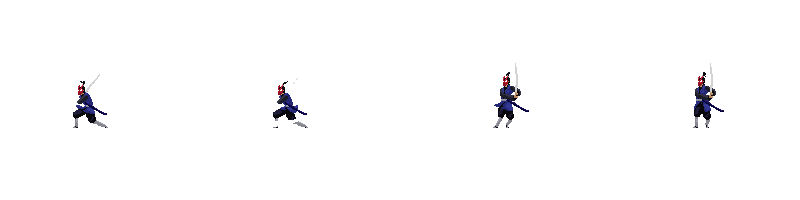
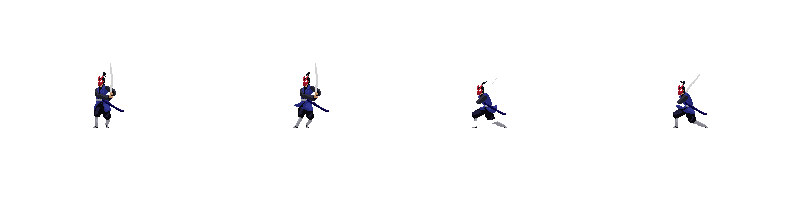
Added fighter damage and fixed orientation of enemy spritesheets

diff --git a/index.js b/index.js
@@ -82,7 +82,8 @@ const player = new Fighter({
     },
     width: 160,
     height: 50
-  }
+  },
+  damage: 20
 });
 
 const enemy = new Fighter({
@@ -124,11 +125,11 @@ const enemy = new Fighter({
       framesMax: 2
     },
     attack1: {
-      imageSrc: "./img/kenji/Attack1.png",
+      imageSrc: "./img/kenji/Attack2.png",
       framesMax: 4
     },
     takeHit: {
-      imageSrc: "./img/kenji/Take hit.png",
+      imageSrc: "./img/kenji/Take Hit - white.png",
       framesMax: 3
     },
     death: {
@@ -143,7 +144,8 @@ const enemy = new Fighter({
     },
     width: 170,
     height: 50
-  }
+  },
+  damage: 10
 });
 
 const keys = {
@@ -158,7 +160,7 @@ const keys = {
 decreaseTimer();
 
 function animate() {
-  window.requestAnimationFrame(animate)
+  window.requestAnimationFrame(animate);
   c.fillStyle = "black";
   c.fillRect(0, 0, canvas.width, canvas.height);
   background.update();
@@ -181,7 +183,7 @@ function animate() {
     player.switchSprite("idle");
   }
 
-    //jumping
+    //jumping animations
   if (player.velocity.y < 0) {
     player.switchSprite("jump");
   } else if (player.velocity.y > 0) {
@@ -201,7 +203,7 @@ function animate() {
     enemy.switchSprite("idle");
   }
 
-    //jumping
+    //jumping animations
   if (enemy.velocity.y < 0) {
     enemy.switchSprite("jump");
   } else if (enemy.velocity.y > 0) {
@@ -217,7 +219,7 @@ function animate() {
     player.isAttacking &&
     player.framesCurrent === 4
   ) {
-    enemy.takeHit();
+    enemy.takeHit(player.damage);
     player.isAttacking = false;
     gsap.to("#enemyHealth", {
       width: enemy.health + "%"
@@ -238,7 +240,7 @@ function animate() {
     enemy.isAttacking &&
     enemy.framesCurrent === 2
   ) {
-    player.takeHit();
+    player.takeHit(enemy.damage);
     enemy.isAttacking = false;
     gsap.to("#playerHealth", {
       width: player.health + "%"
@@ -271,7 +273,10 @@ window.addEventListener("keydown", (event) => {
         player.lastKey = "a";
         break;
       case 'w':
-        player.velocity.y = -20;
+        if (player.canJump) {
+          player.velocity.y = -20;
+          player.canJump = false;
+        }
         break;
       case 's':
         player.attack();
@@ -291,7 +296,10 @@ window.addEventListener("keydown", (event) => {
         enemy.lastKey = "j";
         break;
       case 'i':
-        enemy.velocity.y = -20;
+        if (enemy.canJump) {
+          enemy.velocity.y = -20;
+          enemy.canJump = false;
+        }
         break;
       case 'k':
         enemy.attack();

diff --git a/js/classes.js b/js/classes.js
@@ -61,7 +61,8 @@ class Fighter extends Sprite {
     framesMax = 1,
     offset = {x: 0, y:0},
     sprites,
-    hitBox = { offset: {}, width: undefined, height: undefined }
+    hitBox = { offset: {}, width: undefined, height: undefined },
+    damage = 20
   }) {
     super({
       position,
@@ -92,6 +93,8 @@ class Fighter extends Sprite {
     this.framesHold = 5;
     this.sprites = sprites;
     this.dead = false;
+    this.canJump = true;
+    this.damage = damage;
 
     for (const sprite in this.sprites) {
       sprites[sprite].image = new Image();
@@ -117,6 +120,7 @@ class Fighter extends Sprite {
     if (this.position.y + this.height + this.velocity.y >= canvas.height - 97) {
       this.velocity.y = 0;
       this.position.y = 330;
+      this.canJump = true;
     } else { this.velocity.y += gravity; }
   }
 
@@ -125,9 +129,9 @@ class Fighter extends Sprite {
     this.isAttacking = true;
   }
 
-  takeHit() {
+  takeHit(damage) {
 
-    this.health -= 20;
+    this.health -= damage;
 
     if (this.health <= 0) {
       this.switchSprite("death");
